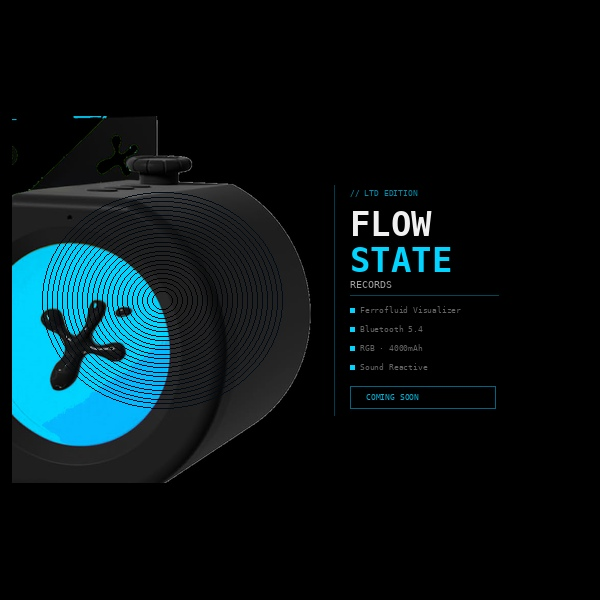
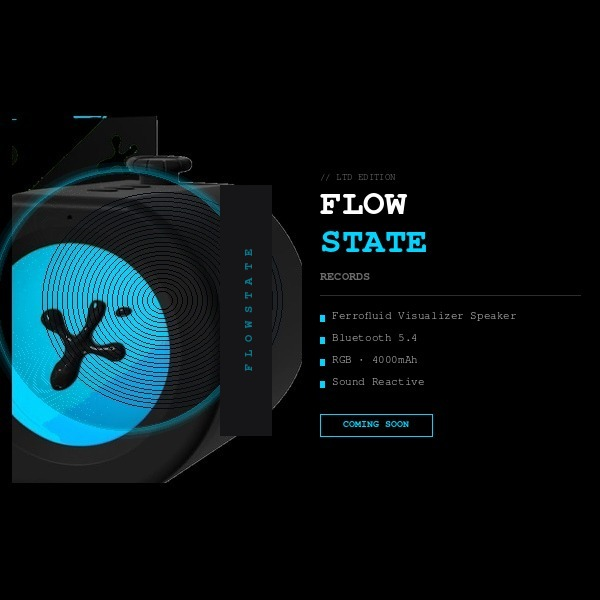
Merch card updates: ferrofluid image polish + vinyl monochrome swap
- Add FLOWSTATE branding to physical device body on ferrofluid product image
- Update card name: Ferrofluid Visualizer → Ferrofluid Visualizer Speaker
- Update spec line in product image to match
- Swap Vinyl · Ltd. to modern black-and-gray turntable (monochrome via sat=-100)

diff --git a/index.html b/index.html
@@ -2407,7 +2407,7 @@
           <img src="images/flowstate_ferrofluid.jpg" alt="Ferrofluid Visualizer — FLOWSTATE Edition" loading="lazy" style="object-position:center center;" />
         </div>
         <div class="shop-body">
-          <div class="shop-name">Ferrofluid Visualizer</div>
+          <div class="shop-name">Ferrofluid Visualizer Speaker</div>
           <div class="shop-sub">Bluetooth · FLOWSTATE Edition</div>
           <div class="shop-row">
             <span class="shop-price">—</span>
@@ -2419,7 +2419,7 @@
       <!-- Vinyl Ltd. -->
       <div class="shop-card" style="opacity:0.5;pointer-events:none">
         <div class="shop-thumb">
-          <img src="https://images.unsplash.com/photo-1616681255209-368a2cd3e643?auto=format&fit=crop&w=600&q=80" alt="Vinyl · Ltd." loading="lazy" style="object-position:center 50%" />
+          <img src="https://images.unsplash.com/photo-1567517849576-ae9432e1a03e?auto=format&fit=crop&w=600&q=80&sat=-100" alt="Vinyl · Ltd." loading="lazy" style="object-position:center 50%" />
         </div>
         <div class="shop-body">
           <div class="shop-name">Vinyl · Ltd.</div>